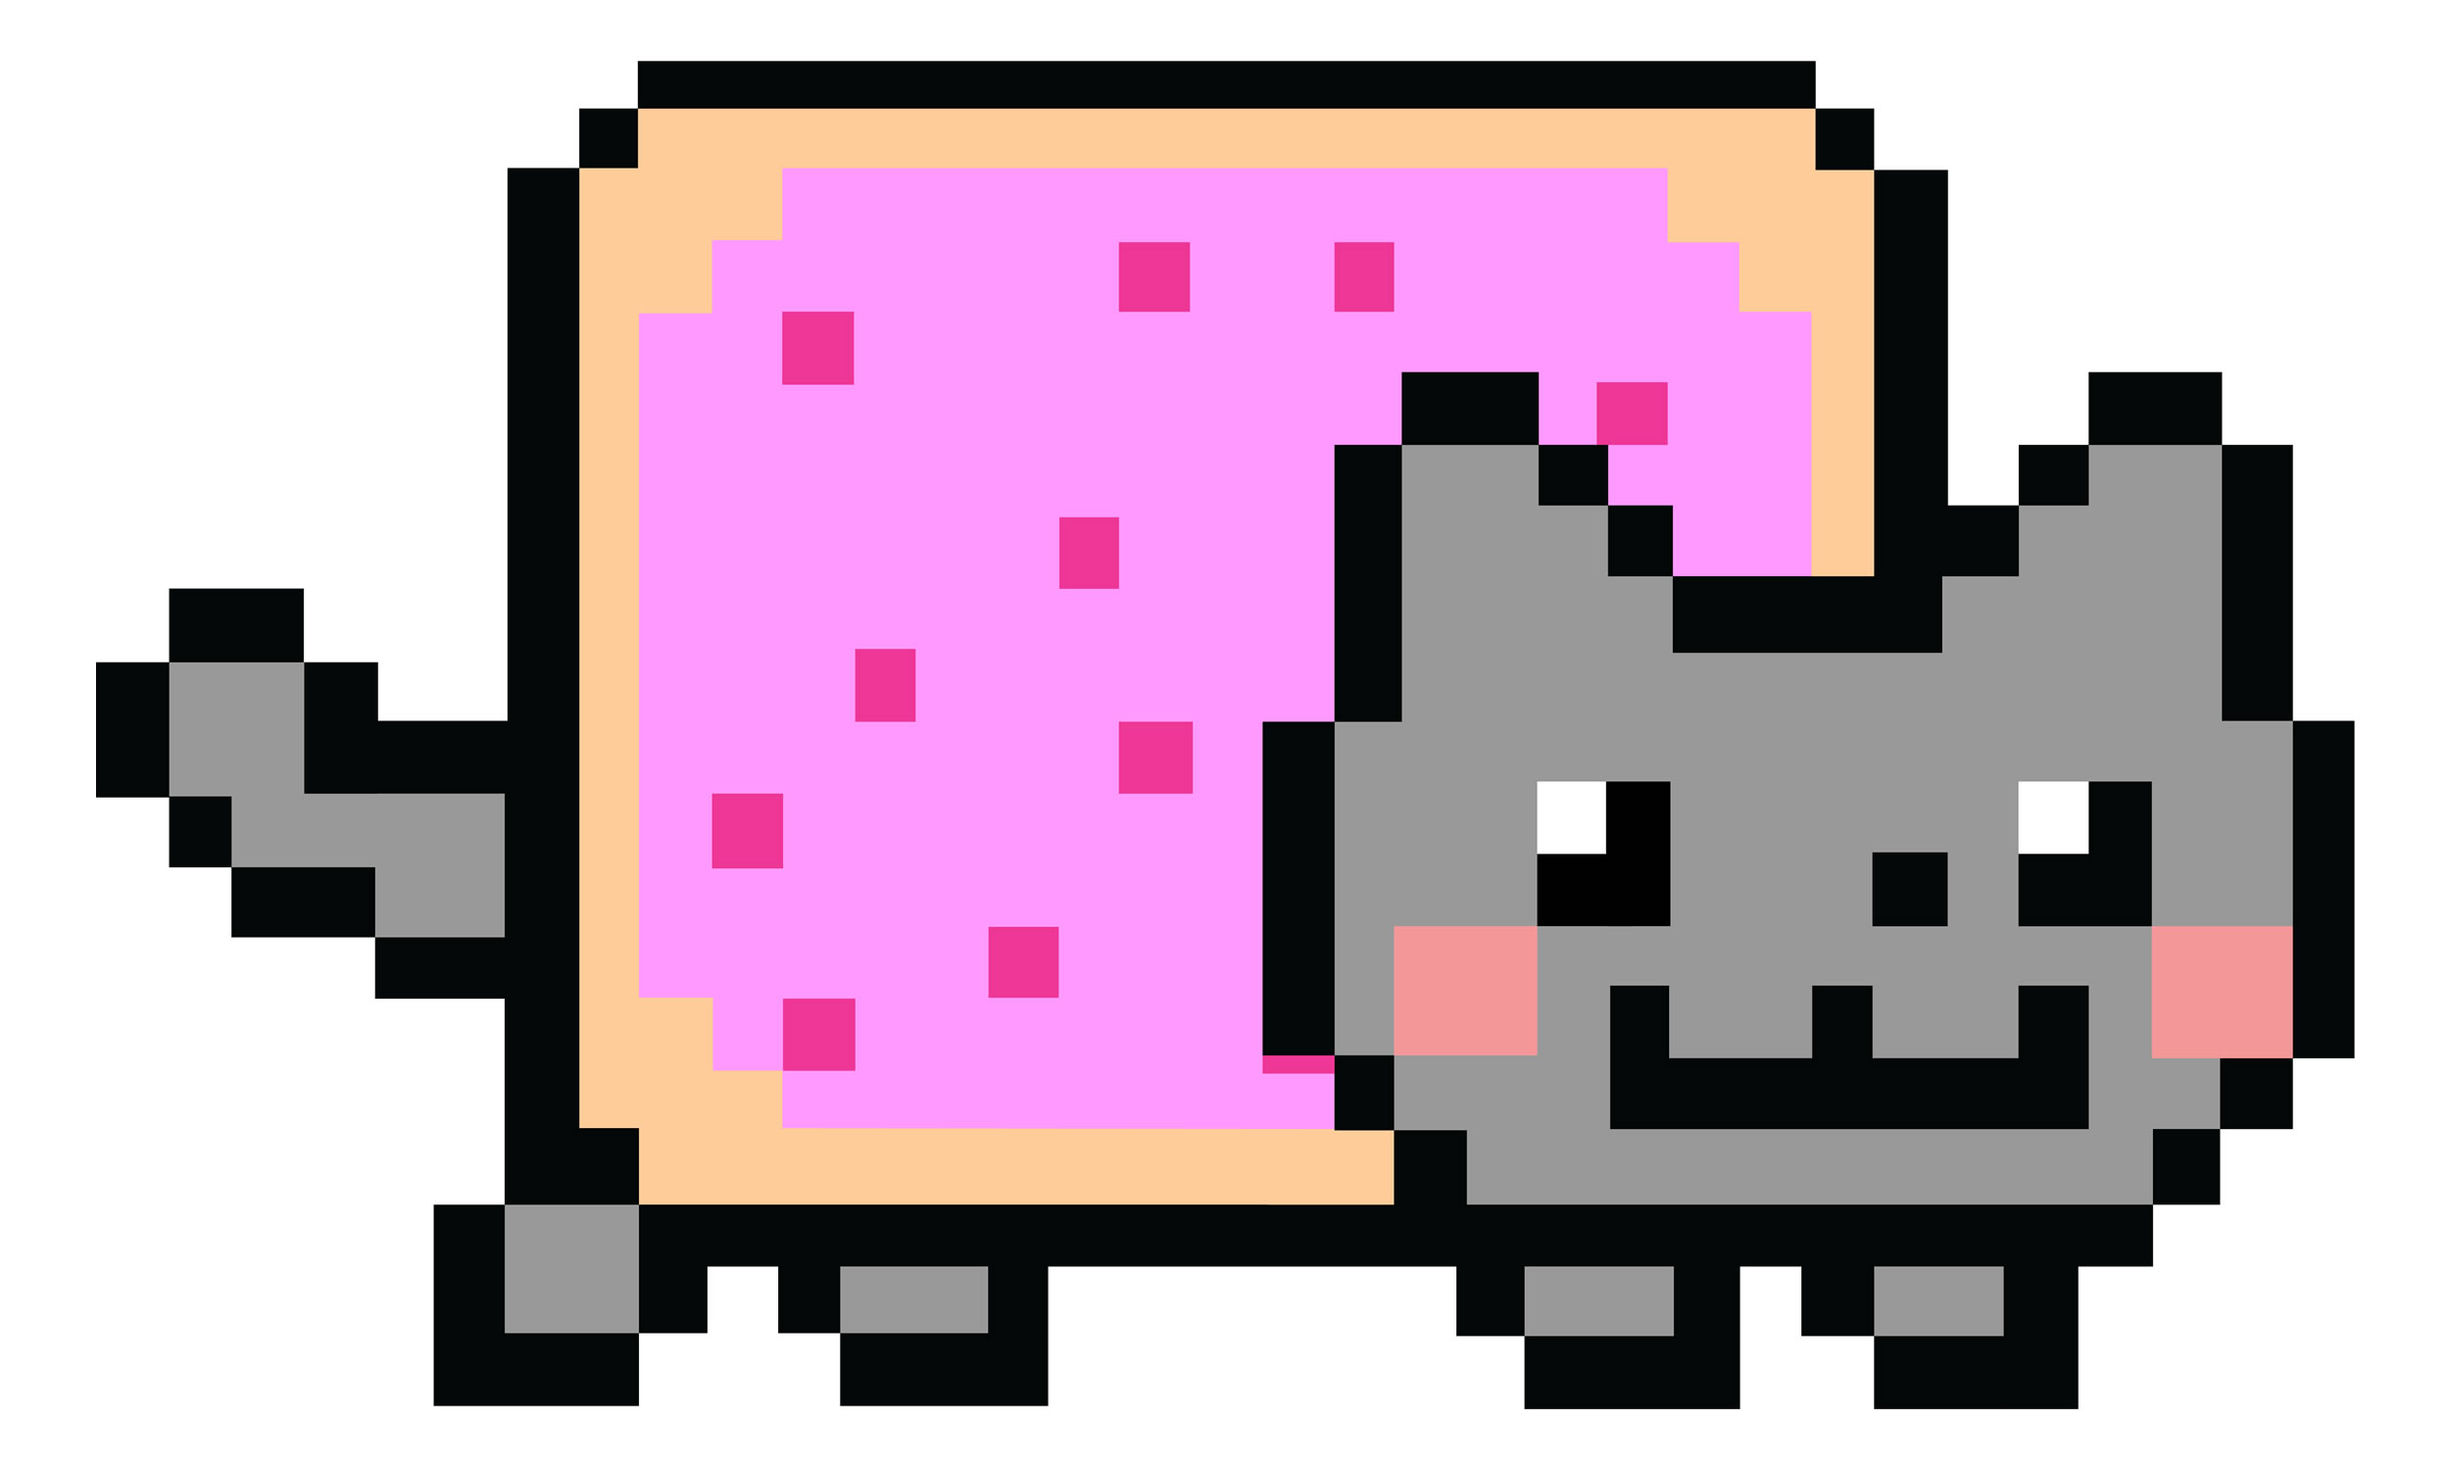
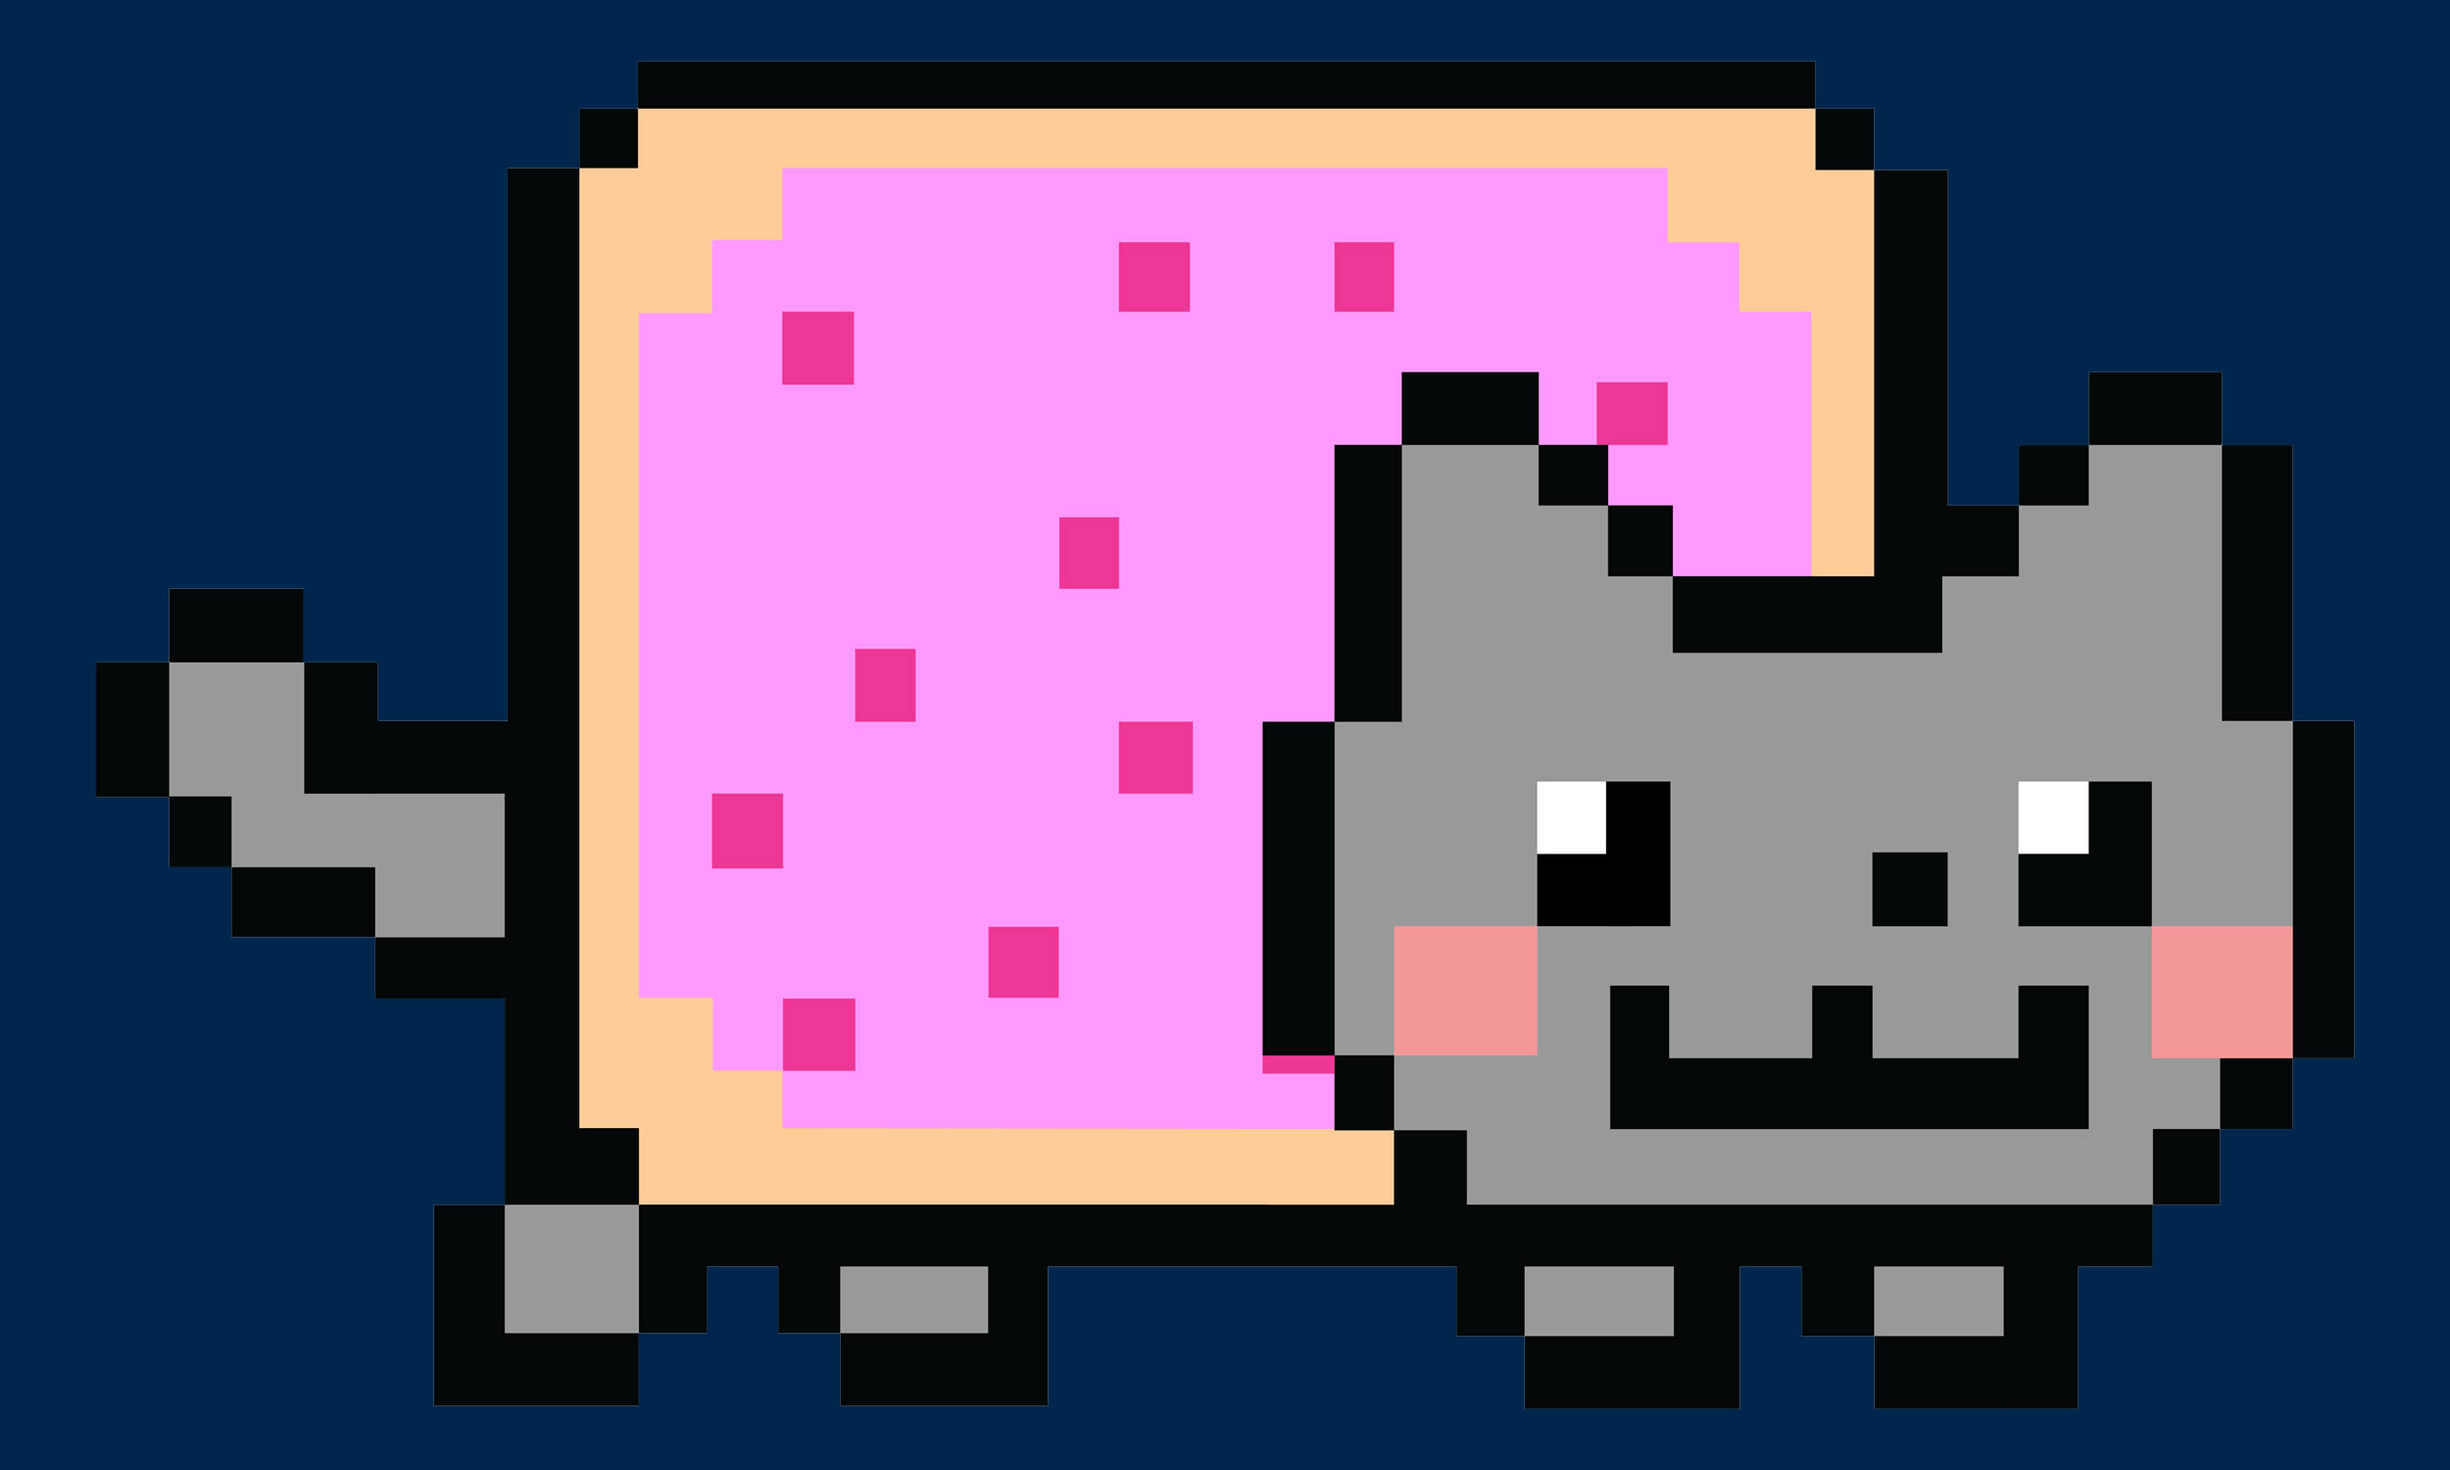
Change default background color
Blue Nyan background instead of white for placeholders
Suggested by @dreeco

diff --git a/index.php b/index.php
@@ -10,7 +10,7 @@
   define('CACHE_IMG_NAME', 'nyan_%sx%s.jpeg');
   define('SOCIAL_TITLE', 'Nyan Cat Placeholder');
   define('SOCIAL_DESC', 'Replace your depressing image placeholder by a happy Nyan Cat image placeholder.');
-  define('SOCIAL_IMG', URL.'/assets/img/nyan.png');
+  define('SOCIAL_IMG', URL.'/assets/img/nyan_social.png');
 
   function parsingError()
   {
@@ -106,7 +106,7 @@
 
       $dest = imagecreatetruecolor($this->width, $this->height);
       
-      $white = imagecolorallocate($dest, 255, 255, 255);
+      $white = imagecolorallocate($dest, 1, 38, 77);
       imagefilledrectangle($dest, 0, 0, $this->width, $this->height, $white);
       imageinterlace($dest, 1);
       imagecopyresized($dest, $src, $width_gap, $height_gap, 0, 0, $width, $height, IMG_SOURCE_WIDTH, IMG_SOURCE_HEIGHT);
@@ -177,7 +177,7 @@
 <body>
   
 <header class="dvt">
-	<h1><a href="<?php echo URL; ?>" class="img-link"><img src="<?php echo URL; ?>/100/50" alt="Nyan Cat" /></a></h1>
+	<h1><a href="<?php echo URL; ?>" class="img-link"><img src="<?php echo URL; ?>/assets/img/nyan.png" alt="Nyan Cat" /></a></h1>
 	<h2>Nyan Cat Placeholder</h2>
 </header>
 
